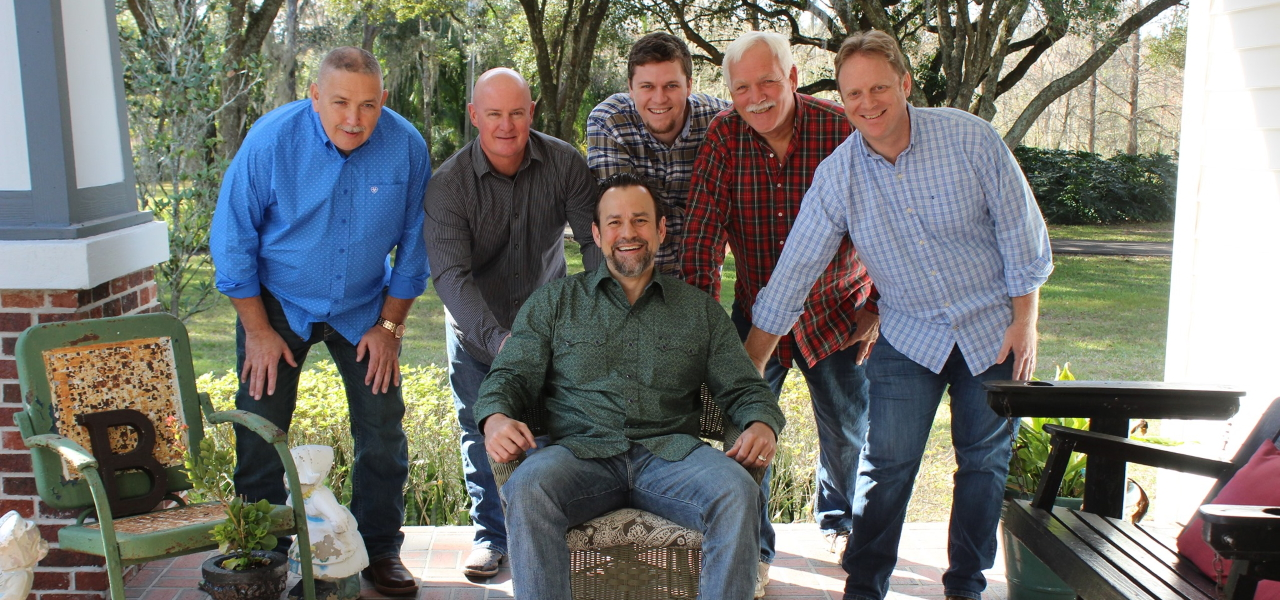
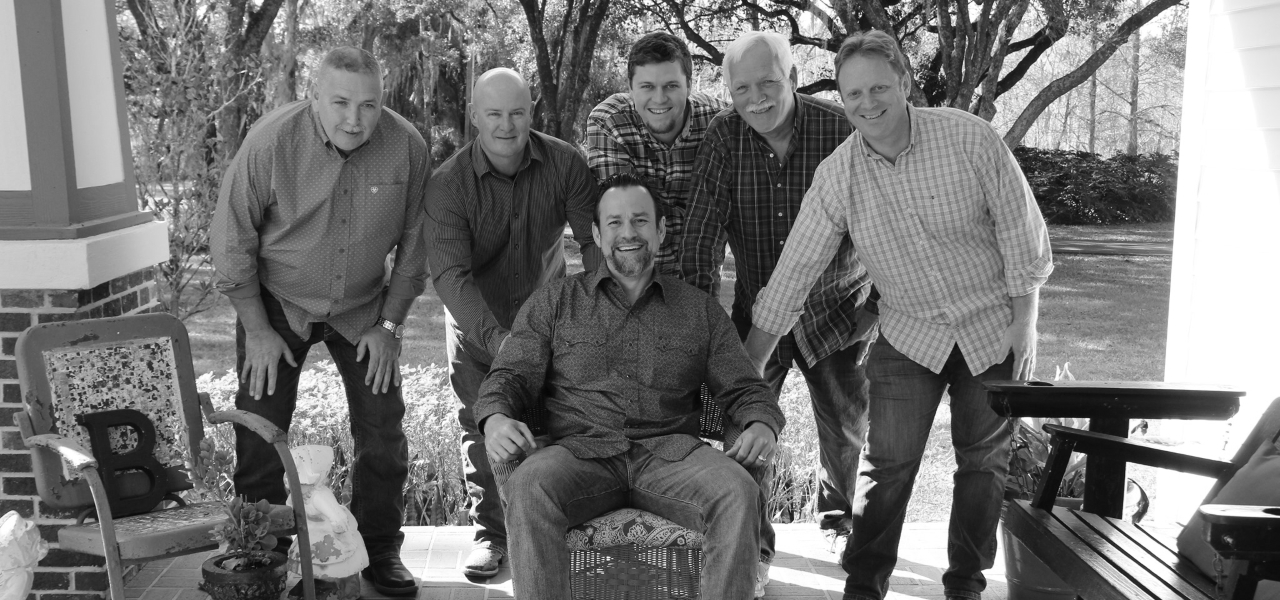
Image and text updates
Added instrument images, swaped a few color images for B&W, updated text and menu items.

diff --git a/index.html b/index.html
@@ -48,8 +48,8 @@
 					<div class="icon-list">
 						<a href="index.html#home"><i class="fa fa-fw fa-home"></i><span>Home</span></a>
 						<a href="index.html#about"><i class="fa fa-fw fa-quote-left"></i><span>About</span></a>
-						<a href="index.html#service"><i class="fa fa-fw fa-globe"></i><span>Service</span></a>
-						<a href="index.html#portfolio"><i class="fa fa-fw fa-picture-o"></i><span>Events</span></a>
+						<a href="index.html#service"><i class="fa fa-fw fa-globe"></i><span>Subscriptions</span></a>
+						<a href="index.html#portfolio"><i class="fa fa-fw fa-picture-o"></i><span>Merchandise</span></a>
 						<a href="index.html#blog"><i class="fa fa-fw fa-rss"></i><span>Artists</span></a>
 						<a href="index.html#contact"><i class="fa fa-fw fa-envelope-o"></i><span>Contact</span></a>
 					</div>
@@ -164,39 +164,63 @@
 
 
 
-
+        <section class="features text-center section-padding" id="service">
+          <div class="container">
+		      <!-- Headline -->
+            <div class="row">
+              <div class="col-md-12">
+                <h1 class="arrow">Ways to support our artists.</h1>
+              </div>
+            </div>
 		<div class="container-fluid">
 		    <!-- About 1 -->
 			<div class="row color-bg">
 				<div class="col-md-6 nopadding features-intro-img">
-					<div class="about-image" style="background-image:url(img/about1.png)"></div><!-- about image 1 -->
+					<div class="about-image" style="background-image:url(img/guitar.jpg)"></div><!-- about image 1 -->
 				</div>
 				<div class="col-md-6 about-text">
-					<h6>High quality webdesign</h6><!-- headline-->
-					<p>Lorem ipsum dolor sit amet, consetetur sadipscing elitr, sed diam nonumy eirmod tempor invidunt ut labore et dolore magna aliquyam erat, sed diam voluptua. At vero eos et accusam et justo duo dolores et ea rebum. Stet clita kasd gubergren, no sea takimata sanctus est Lorem ipsum dolor sit amet. Lorem ipsum dolor sit amet, consetetur sadipscing elitr, sed diam nonumy eirmod tempor invidunt ut labore et dolore magna aliquyam erat.</p><br><!-- About Text 1 -->
-					<a href="index.html#team" class="weight-outline-btn">Read more</a><!-- read more button  -->			
+					<h6>Free subscription</h6><!-- headline-->
+					<p>If you want to keep up with our artists sign up for our free newsletter. We will keep you up to date with all upcoming shows and livestreams, and get first notification when tickets and merchandise are availible.</p><br><!-- About Text 1 -->
+					<a href="index.html#team" class="weight-outline-btn">Sign up here!</a><!-- read more button  -->			
 				</div>
 			</div>
 			<!-- About 2 -->
 			<div class="row">
 				<div class="col-md-6 about-text">
-					<h6>Professional Photography</h6><!-- Headline -->
-					<p>Lorem ipsum dolor sit amet, consetetur sadipscing elitr, sed diam nonumy eirmod tempor invidunt ut labore et dolore magna aliquyam erat, sed diam voluptua. At vero eos et accusam et justo duo dolores et ea rebum. Stet clita kasd gubergren, no sea takimata sanctus est Lorem ipsum dolor sit amet. Lorem ipsum dolor sit amet, consetetur sadipscing elitr, sed diam nonumy eirmod tempor invidunt ut labore et dolore magna aliquyam erat.</p><br><!-- About Text 2 -->
-					<a href="index.html#team" class="weight-outline-btn">Read more</a>	<!-- read more button  -->				
+					<h6>$5/month Supporter</h6><!-- Headline -->
+					<p>Want to help your favorite bluegrass artists keep making great music, and get some nice extra benefits to boot! Sign up to support our artists with a $5 per month subscription. This money goes directly to our artists and helps make it possible for them to keep making great music. As a $5/month subscriber not only do you get the satisfaction of supporting bluegrass music, you also get some exclusive perks:
+					<ul>
+					<li>Email Newsletter</li>
+					<li>Access to Private Discord Server</li>
+					<li>Subscriber giveaways</li>
+					<li>Exclusive access to weekly Livestreams</li>
+					<li>Priority access to tickets to select events.</li>
+					<ul>
+					</p><br><!-- About Text 2 -->
+					<a href="index.html#team" class="weight-outline-btn">Subscribe Now</a>	<!-- read more button  -->				
 				</div>
 				<div class="col-md-6 nopadding features-intro-img">
-					<div class="about-image" style="background-image:url(img/about2.png)"></div><!-- about image 2 -->
+					<div class="about-image" style="background-image:url(img/banjo.jpg)"></div><!-- about image 2 -->
 				</div>
 			</div>
 			<!-- About 3 -->
 			<div class="row color-bg">
 				<div class="col-md-6 nopadding features-intro-img">
-					<div class="about-image" style="background-image:url(img/about3.png)"></div><!-- about image 3 -->
+					<div class="about-image" style="background-image:url(img/mandolin.jpg)"></div><!-- about image 3 -->
 				</div>
 				<div class="col-md-6 about-text">
-					<h6>3d modeling and animations</h6><!-- Headline-->
-					<p>Lorem ipsum dolor sit amet, consetetur sadipscing elitr, sed diam nonumy eirmod tempor invidunt ut labore et dolore magna aliquyam erat, sed diam voluptua. At vero eos et accusam et justo duo dolores et ea rebum. Stet clita kasd gubergren, no sea takimata sanctus est Lorem ipsum dolor sit amet. Lorem ipsum dolor sit amet, consetetur sadipscing elitr, sed diam nonumy eirmod tempor invidunt ut labore et dolore magna aliquyam erat.</p><br><!-- About Text 3 -->
-					<a href="index.html#team" class="weight-outline-btn">Read more</a><!-- read more button  -->					
+					<h6>$10/month Supporter</h6><!-- Headline-->
+					<p>For those who would like to offer a little extra support, and get a little extra in return, sign up to support our artists with a $10 per month subscription. You will get all the perk of the $5/month subscription, plus a subscriber only album with new music from our artists and a free subscriber only merchandise.
+					<ul>
+					<li>Email Newsletter</li>
+					<li>Access to Private Discord Server</li>
+					<li>Subscriber giveaways</li>
+					<li>Exclusive access to weekly Livestreams</li>
+					<li>Priority access to tickets to select events.</li>
+					<li>Free subscriber only merchandise.</li>
+					<li>Exclusive Recordings (1 Album/year)</li>
+					<ul></p><br><!-- About Text 3 -->
+					<a href="index.html#team" class="weight-outline-btn">Subscribe Now</a><!-- read more button  -->					
 				</div>
 			</div>
 		</div>
@@ -345,8 +369,6 @@
     <!-- ==========================
         BLOG SECTION 
         =========================== -->
-    <section class="text-center section-padding" id="blog">
-          <div class="container">
         <!-- Headline -->
         <div class="row">
               <div class="col-md-12">
